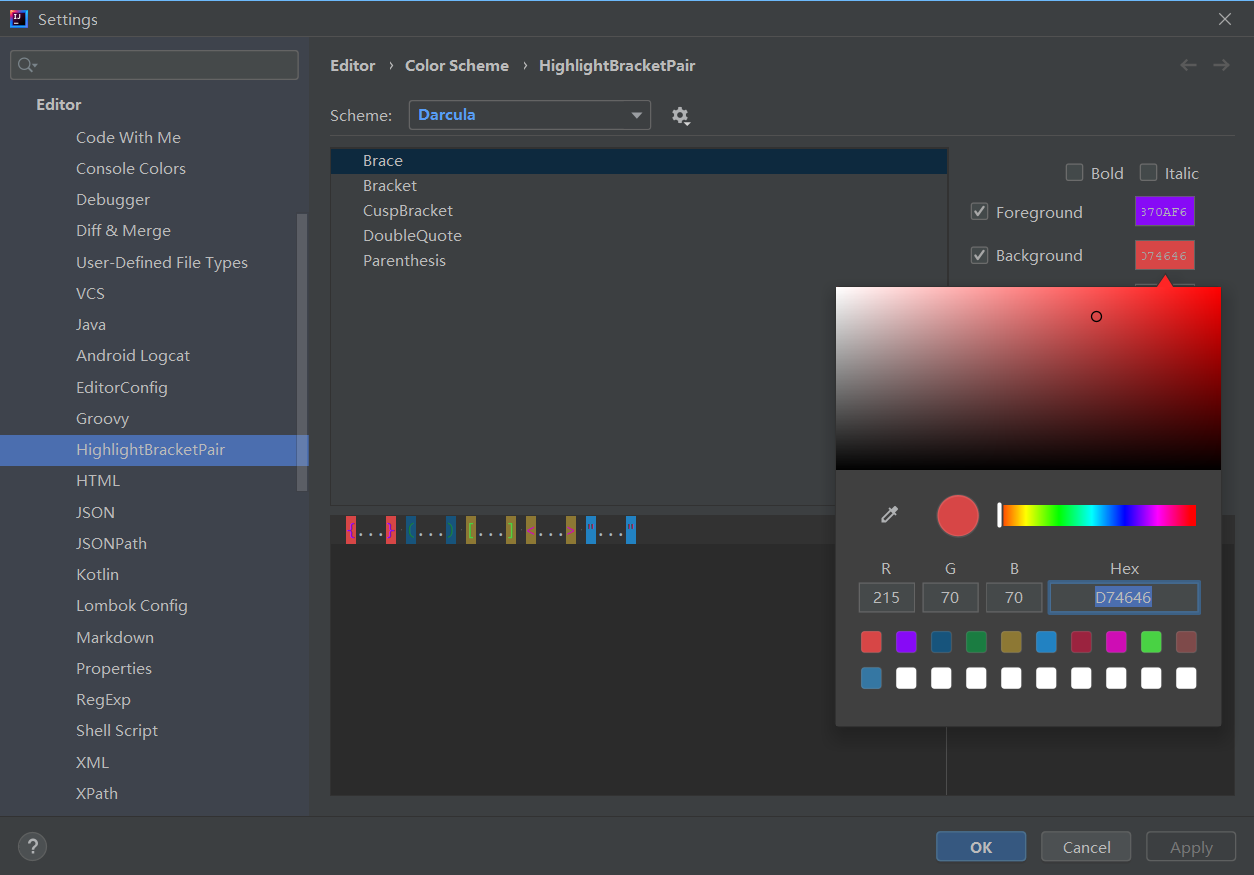
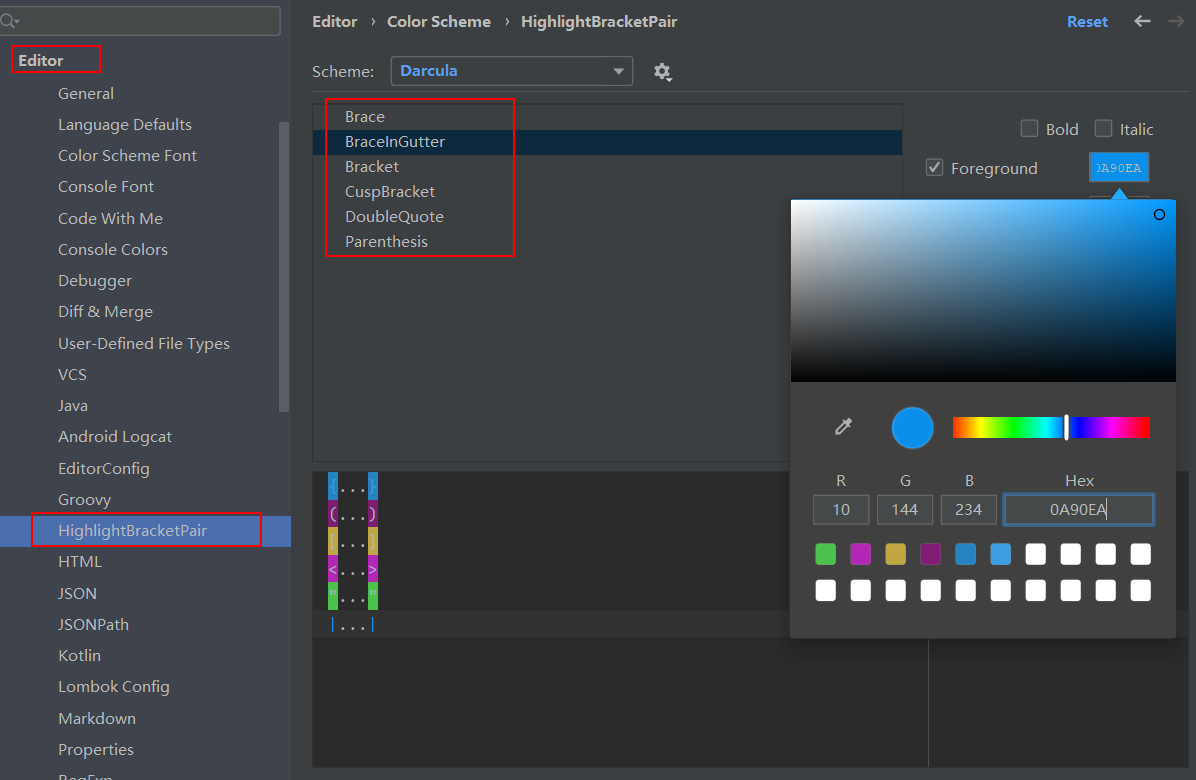
:sparkles: feature(core): customize the color and size of gutter brackets

diff --git a/src/main/java/cn/aprilviolet/highlightbracketpair/highlighter/AbstractBracketHighlighter.java b/src/main/java/cn/aprilviolet/highlightbracketpair/highlighter/AbstractBracketHighlighter.java
@@ -141,7 +141,7 @@ abstract public class AbstractBracketHighlighter {
      * @param bracePair BracePair
      * @return List<RangeHighlighter>
      */
-    public Pair<RangeHighlighter, RangeHighlighter> renderBracesInGutter(BracePair bracePair) {
+    public Pair<RangeHighlighter, RangeHighlighter> renderBracesInGutter(BracePair bracePair, Integer gutterBracketSize) {
         final Brace leftBrace = bracePair.getLeftBrace();
         final Brace rightBrace = bracePair.getRightBrace();
         final int leftBraceOffset = leftBrace.getOffset();
@@ -166,9 +166,11 @@ abstract public class AbstractBracketHighlighter {
         final TextAttributes textAttributes = editor.getColorsScheme().getAttributes(textAttributesKey);
 
         int openBraceLine = document.getLineNumber(leftBraceOffset);
-        RangeHighlighter openBraceHighlighter = renderBraceInGutter(openBraceLine, leftBraceText, textAttributes);
+        RangeHighlighter openBraceHighlighter = renderBraceInGutter(openBraceLine, leftBraceText,
+                textAttributes, gutterBracketSize);
         int closeBraceLine = document.getLineNumber(rightBraceOffset);
-        RangeHighlighter closeBraceHighlighter = renderBraceInGutter(closeBraceLine, rightBraceText, textAttributes);
+        RangeHighlighter closeBraceHighlighter = renderBraceInGutter(closeBraceLine, rightBraceText,
+                textAttributes, gutterBracketSize);
 
         return new Pair<>(openBraceHighlighter, closeBraceHighlighter);
     }
@@ -181,7 +183,8 @@ abstract public class AbstractBracketHighlighter {
      * @param textAttributes text
      * @return RangeHighlighter
      */
-    public RangeHighlighter renderBraceInGutter(int braceLine, String braceText, TextAttributes textAttributes) {
+    public RangeHighlighter renderBraceInGutter(int braceLine, String braceText,
+                                                TextAttributes textAttributes, Integer gutterBracketSize) {
         RangeHighlighter braceHighlighter = editor.getMarkupModel()
                 .addLineHighlighter(braceLine, HighlighterLayer.SELECTION, null);
 
@@ -197,6 +200,7 @@ abstract public class AbstractBracketHighlighter {
                         }
 
                         g.setColor(textAttributes.getForegroundColor());
+                        g.setFont(new Font("JetBrains Mono", Font.BOLD, gutterBracketSize));
                         g.drawChars(braceText.toCharArray(), 0, braceText.length(), 0, 0);
                     }
 
@@ -234,6 +238,7 @@ abstract public class AbstractBracketHighlighter {
      * @param offset offset
      * @return BracePair
      */
+    @SuppressWarnings("RedundantCast")
     private BracePair findCloseBracePairInBraceTokens(int offset) {
         EditorHighlighter editorHighlighter = ((EditorEx) editor).getHighlighter();
         boolean isBlockCaret = this.isBlockCaret();
@@ -261,6 +266,7 @@ abstract public class AbstractBracketHighlighter {
      * @param offset offset
      * @return BracePair
      */
+    @SuppressWarnings("RedundantCast")
     private BracePair findCloseBracePairInStringSymbols(int offset) {
         if (offset < 0 || this.fileText == null || this.fileText.length() == 0) {
             return EMPTY_BRACE_PAIR;

diff --git a/src/main/java/cn/aprilviolet/highlightbracketpair/setting/HighlightBracketPairSettingsPage.java b/src/main/java/cn/aprilviolet/highlightbracketpair/setting/HighlightBracketPairSettingsPage.java
@@ -37,12 +37,15 @@ public class HighlightBracketPairSettingsPage implements ColorSettingsPage {
 
     public static final TextAttributesKey CUSP_BRACKETS_ATTR = TextAttributesKey.createTextAttributesKey("CUSP_BRACKETS_ATTR");
 
+    public static final TextAttributesKey BRACE_ATTR_GUTTER = TextAttributesKey.createTextAttributesKey("BRACE_ATTR_GUTTER");
+
     private static final AttributesDescriptor[] ATTRIBUTES_DESCRIPTION = {
             new AttributesDescriptor("Brace", BRACE_ATTR),
             new AttributesDescriptor("Bracket", BRACKET_ATTR),
             new AttributesDescriptor("Parenthesis", PARENTHESIS_ATTR),
             new AttributesDescriptor("DoubleQuote", DOUBLE_QUOTE_ATTR),
             new AttributesDescriptor("CuspBracket", CUSP_BRACKETS_ATTR),
+            new AttributesDescriptor("BraceInGutter", BRACE_ATTR_GUTTER)
     };
 
     private static final Map<IElementType, TextAttributesKey> ELEMENT_TYPE_ATTRIBUTE = new HashMap<>();
@@ -61,12 +64,14 @@ public class HighlightBracketPairSettingsPage implements ColorSettingsPage {
         CONTENT_ATTRIBUTE.put("[", BRACKET_ATTR);
         CONTENT_ATTRIBUTE.put("(", PARENTHESIS_ATTR);
         CONTENT_ATTRIBUTE.put("<", CUSP_BRACKETS_ATTR);
+        CONTENT_ATTRIBUTE.put("|", BRACE_ATTR_GUTTER);
         // TAGS
         TAGS.put("Brace", BRACE_ATTR);
         TAGS.put("Bracket", BRACKET_ATTR);
         TAGS.put("Parenthesis", PARENTHESIS_ATTR);
         TAGS.put("DoubleQuote", DOUBLE_QUOTE_ATTR);
         TAGS.put("CuspBracket", CUSP_BRACKETS_ATTR);
+        TAGS.put("BraceInGutter", BRACE_ATTR_GUTTER);
     }
 
     public static TextAttributesKey getTextAttributesKeyByToken(IElementType type) {
@@ -93,10 +98,11 @@ public class HighlightBracketPairSettingsPage implements ColorSettingsPage {
     @Override
     public String getDemoText() {
         return "<Brace>{</Brace>...<Brace>}</Brace>" +
-                " <Parenthesis>(</Parenthesis>...<Parenthesis>)</Parenthesis>" +
-                " <Bracket>[</Bracket>...<Bracket>]</Bracket>" +
-                " <CuspBracket><</CuspBracket>...<CuspBracket>></CuspBracket>" +
-                " <DoubleQuote>\"</DoubleQuote>...<DoubleQuote>\"</DoubleQuote>";
+                "\n<Parenthesis>(</Parenthesis>...<Parenthesis>)</Parenthesis>" +
+                "\n<Bracket>[</Bracket>...<Bracket>]</Bracket>" +
+                "\n<CuspBracket><</CuspBracket>...<CuspBracket>></CuspBracket>" +
+                "\n<DoubleQuote>\"</DoubleQuote>...<DoubleQuote>\"</DoubleQuote>" +
+                "\n<BraceInGutter>|</BraceInGutter>...<BraceInGutter>|</BraceInGutter>";
     }
 
     @Nullable

diff --git a/src/main/java/cn/aprilviolet/highlightbracketpair/setting/HighlightBracketPairSettingComponent.java b/src/main/java/cn/aprilviolet/highlightbracketpair/setting/HighlightBracketPairSettingComponent.java
@@ -1,9 +1,15 @@
 package cn.aprilviolet.highlightbracketpair.setting;
 
+import com.intellij.ui.IdeBorderFactory;
 import com.intellij.ui.components.JBCheckBox;
+import com.intellij.ui.components.JBLabel;
+import com.intellij.ui.components.JBPanel;
+import com.intellij.ui.components.JBTextField;
 import com.intellij.util.ui.FormBuilder;
+import com.intellij.util.ui.JBUI;
 
 import javax.swing.*;
+import java.awt.*;
 
 /**
  * HighlightBracketPair setting component
@@ -14,13 +20,41 @@ import javax.swing.*;
  * @since v1.0.0
  */
 public class HighlightBracketPairSettingComponent {
+    /**
+     * setting main panel
+     */
     private final JPanel bracketMainPanel;
+
+    /**
+     * Open render bracket in gutter
+     */
     private final JBCheckBox bracketGutterEnable = new JBCheckBox("Open render bracket in gutter");
 
+    /**
+     * Set bracket size for gutter"
+     */
+    private final JBTextField bracketGutterSizeText = new JBTextField();
+
     public HighlightBracketPairSettingComponent() {
-        bracketMainPanel = FormBuilder.createFormBuilder()
-                .addComponent(bracketGutterEnable, 1).addComponentFillVertically(new JPanel(), 0)
+        bracketMainPanel = new JBPanel();
+        bracketMainPanel.setLayout(new GridBagLayout());
+        GridBagConstraints constraints = new GridBagConstraints();
+        constraints.anchor = GridBagConstraints.NORTH;
+        constraints.fill = GridBagConstraints.HORIZONTAL;
+        constraints.weightx = 1;
+        constraints.weighty = 1;
+        constraints.insets = JBUI.insets(10, 10, 10, 10);
+        constraints.gridx = 0;
+
+        JBLabel bracketGutterLabel = new JBLabel("Bracket size in gutter");
+        JPanel bracketGutterPanel = FormBuilder.createFormBuilder()
+                .addComponent(bracketGutterEnable, 1)
+                .addLabeledComponent(bracketGutterLabel, bracketGutterSizeText, 1, false)
                 .getPanel();
+        bracketGutterPanel.setBorder(IdeBorderFactory.createTitledBorder("Bracket In Gutter"));
+
+        constraints.gridy = 0;
+        bracketMainPanel.add(bracketGutterPanel, constraints);
     }
 
     public JPanel getBracketMainPanel() {
@@ -33,5 +67,13 @@ public class HighlightBracketPairSettingComponent {
 
     public void setBracketGutterEnable(boolean newStatus) {
         bracketGutterEnable.setSelected(newStatus);
+    }
+
+    public String getBracketGutterSizeText() {
+        return bracketGutterSizeText.getText();
+    }
+
+    public void setBracketGutterSizeText(String bracketGutterSize) {
+        bracketGutterSizeText.setText(bracketGutterSize);
     }
 }

diff --git a/src/main/java/cn/aprilviolet/highlightbracketpair/setting/BracketSettingsConfigurable.java b/src/main/java/cn/aprilviolet/highlightbracketpair/setting/BracketSettingsConfigurable.java
@@ -3,6 +3,7 @@ package cn.aprilviolet.highlightbracketpair.setting;
 import com.intellij.openapi.options.Configurable;
 import com.intellij.openapi.options.ConfigurationException;
 import com.intellij.openapi.util.NlsContexts;
+import org.apache.commons.lang3.StringUtils;
 import org.jetbrains.annotations.Nullable;
 
 import javax.swing.*;
@@ -56,9 +57,10 @@ public class BracketSettingsConfigurable implements Configurable {
      */
     @Override
     public boolean isModified() {
-        boolean isModified = highlightBracketPairSettingComponent.getBracketGutterEnable()
-                .equals(highlightBracketPairSettings.getBracketGutterEnable());
-        return !isModified;
+        return !highlightBracketPairSettingComponent.getBracketGutterEnable()
+                .equals(highlightBracketPairSettings.getBracketGutterEnable()) ||
+                !highlightBracketPairSettingComponent.getBracketGutterSizeText()
+                        .equals(highlightBracketPairSettings.getGutterBracketSize());
     }
 
     /**
@@ -70,6 +72,9 @@ public class BracketSettingsConfigurable implements Configurable {
     @Override
     public void apply() throws ConfigurationException {
         highlightBracketPairSettings.setBracketGutterEnable(highlightBracketPairSettingComponent.getBracketGutterEnable());
+        if (StringUtils.isNumeric(highlightBracketPairSettingComponent.getBracketGutterSizeText())) {
+            highlightBracketPairSettings.setGutterBracketSize(highlightBracketPairSettingComponent.getBracketGutterSizeText());
+        }
     }
 
     /**
@@ -79,5 +84,6 @@ public class BracketSettingsConfigurable implements Configurable {
     @Override
     public void reset() {
         highlightBracketPairSettingComponent.setBracketGutterEnable(highlightBracketPairSettings.getBracketGutterEnable());
+        highlightBracketPairSettingComponent.setBracketGutterSizeText(highlightBracketPairSettings.getGutterBracketSize());
     }
 }

diff --git a/src/main/java/cn/aprilviolet/highlightbracketpair/component/HighlightEditorCartListener.java b/src/main/java/cn/aprilviolet/highlightbracketpair/component/HighlightEditorCartListener.java
@@ -10,6 +10,7 @@ import com.intellij.openapi.editor.event.CaretEvent;
 import com.intellij.openapi.editor.event.CaretListener;
 import com.intellij.openapi.editor.markup.RangeHighlighter;
 import org.apache.commons.lang3.ObjectUtils;
+import org.apache.commons.lang3.StringUtils;
 import org.jetbrains.annotations.NotNull;
 
 import java.awt.event.KeyAdapter;
@@ -80,8 +81,13 @@ public class HighlightEditorCartListener implements CaretListener {
         if (highlightBracketPairSettings.getBracketGutterEnable()) {
             // clear braces in gutter
             highlighter.eraseHighlight(gutterHighlighterList);
+            String gutterBracketSize = highlightBracketPairSettings.getGutterBracketSize();
+            if (StringUtils.isEmpty(gutterBracketSize) || !StringUtils.isNumeric(gutterBracketSize)) {
+                gutterBracketSize = "14";
+            }
             // show braces in gutter
-            Pair<RangeHighlighter, RangeHighlighter> highlighterInGutter = highlighter.renderBracesInGutter(bracePair);
+            Pair<RangeHighlighter, RangeHighlighter> highlighterInGutter = highlighter.renderBracesInGutter(bracePair,
+                    Integer.parseInt(gutterBracketSize));
             if (ObjectUtils.isNotEmpty(highlighterInGutter)) {
                 gutterHighlighterList.add(highlighterInGutter.getLeft());
                 gutterHighlighterList.add(highlighterInGutter.getRight());

diff --git a/src/main/java/cn/aprilviolet/highlightbracketpair/setting/HighlightBracketPairPluginState.java b/src/main/java/cn/aprilviolet/highlightbracketpair/setting/HighlightBracketPairPluginState.java
@@ -12,13 +12,18 @@ public class HighlightBracketPairPluginState {
     /**
      * Plug-in version
      */
-    private String pluginVersion = "";
+    private String pluginVersion = "0.0.0";
 
     /**
      * turn on rendering brackets in gutter
      * true:open false:close
      */
-    private Boolean bracketGutterEnable = Boolean.FALSE;
+    private Boolean bracketGutterEnable = Boolean.TRUE;
+
+    /**
+     * customize bracket in gutter size
+     */
+    private String gutterBracketSize = "14";
 
     public String getPluginVersion() {
         return pluginVersion;
@@ -34,5 +39,13 @@ public class HighlightBracketPairPluginState {
 
     public void setBracketGutterEnable(Boolean bracketGutterEnable) {
         this.bracketGutterEnable = bracketGutterEnable;
+    }
+
+    public String getGutterBracketSize() {
+        return gutterBracketSize;
+    }
+
+    public void setGutterBracketSize(String gutterBracketSize) {
+        this.gutterBracketSize = gutterBracketSize;
     }
 }

diff --git a/src/main/java/cn/aprilviolet/highlightbracketpair/setting/HighlightBracketPairSettings.java b/src/main/java/cn/aprilviolet/highlightbracketpair/setting/HighlightBracketPairSettings.java
@@ -70,4 +70,12 @@ public class HighlightBracketPairSettings implements PersistentStateComponent<Hi
     public void setBracketGutterEnable(Boolean bracketGutterEnable) {
         highlightBracketPairPluginState.setBracketGutterEnable(bracketGutterEnable);
     }
+
+    public String getGutterBracketSize() {
+        return highlightBracketPairPluginState.getGutterBracketSize();
+    }
+
+    public void setGutterBracketSize(String bracketGutterEnable) {
+        highlightBracketPairPluginState.setGutterBracketSize(bracketGutterEnable);
+    }
 }

diff --git a/README.md b/README.md
@@ -7,11 +7,16 @@
 <!-- Plugin description -->
 
 The plugin can color highlight the Bracket Pair in editor for IntelliJ.<br/>
-	FROM <a href="https://github.com/qeesung/HighlightBracketPair">qeesung#HighlightBracketPair</a>.Fix bugs and continue to develop new features.<br/>
+
+New feature: can render the bracket color in gutter.<br/>
 
 highlight-bracket-pair maybe support Languages: Java, Groovy, Kotlin, Scala, Haskell, Python, JavaScript, TypeScript, Golang, Ruby, Erlang, Rust, Html, XML, Json, CSS....Of course, the support for certain languages is not perfect.<br/>
 
-If you have any questions, you can go to <a href="https://github.com/AprilViolet/highlight-bracket-pair">Github</a> to raise an issue.Thanks.
+FROM <a href="https://github.com/qeesung/HighlightBracketPair">qeesung#HighlightBracketPair</a>.Fix bugs and continue to develop new features.<br/>
+
+If you have any questions or get more information, you can go to <a href="https://github.com/AprilViolet/highlight-bracket-pair">Github</a>.Thanks.
+
+<!-- Plugin description end -->
 
 ## Screenshots ##
 
@@ -31,9 +36,11 @@ If you have any questions, you can go to <a href="https://github.com/AprilViolet
 
 ![HighlightBracketPair-004](./images/HighlightBracketPair-004.png)
 
-<!-- Plugin description end -->
-
 ## Installation
+
+<a href="https://plugins.jetbrains.com/embeddable/install/17320">
+    <img src="https://user-images.githubusercontent.com/12044174/123105697-94066100-d46a-11eb-9832-338cdf4e0612.png" width="300"/>
+</a>
 
 - Using IDE built-in plugin system:
   

diff --git a/CHANGELOG.md b/CHANGELOG.md
@@ -6,13 +6,19 @@
 
 - More language support.
 
+## [1.2.0 - 2021.09.09]
+
+### Added
+
++ Feature:customize the color and size of gutter brackets.
+
 ## [1.1.0 - 2021.09.03]
 
-### Added ###
+### Added
 
 + Feature:render bracket in gutter.
 
-### Fixed ###
+### Fixed
 
 + Fix that the listener renders multiple times
 
